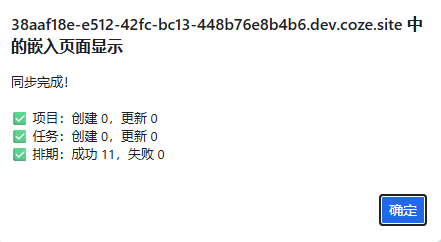
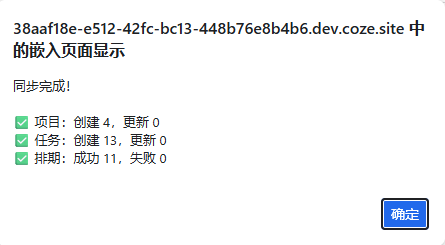
fix: 修复项目和任务同步时无法识别已有记录的问题（改用 records/list 接口）

diff --git a/src/app/api/feishu/sync-projects-tasks/route.ts b/src/app/api/feishu/sync-projects-tasks/route.ts
@@ -74,28 +74,46 @@ export async function POST(request: NextRequest) {
       const existingProjectsMap = new Map<string, string>(); // projectId -> record_id
       
       try {
-        const listResponse = await fetch(
-          `https://open.feishu.cn/open-apis/bitable/v1/apps/${appToken}/tables/${tableIds.projects}/records/search`,
-          {
-            method: 'POST',
+        // 使用 records/list 接口获取所有记录
+        let allRecords: any[] = [];
+        let pageToken = '';
+        
+        do {
+          const url = `https://open.feishu.cn/open-apis/bitable/v1/apps/${appToken}/tables/${tableIds.projects}/records?page_size=500${pageToken ? `&page_token=${pageToken}` : ''}`;
+          
+          const listResponse = await fetch(url, {
+            method: 'GET',
             headers: {
               'Authorization': `Bearer ${appAccessToken}`,
               'Content-Type': 'application/json',
             },
-            body: JSON.stringify({ page_size: 500 }),
-          }
-        );
-
-        const listData = await listResponse.json();
-        if (listData.code === 0 && listData.data) {
-          listData.data.items.forEach((item: any) => {
-            const projectId = item.fields[FEISHU_FIELD_IDS.projects.id];
-            if (projectId) {
-              existingProjectsMap.set(projectId, item.record_id);
-            }
           });
-          log(`飞书中已有 ${existingProjectsMap.size} 个项目记录`);
-        }
+
+          const listData = await listResponse.json();
+          log(`获取项目记录响应: code=${listData.code}, has_data=${!!listData.data}, items=${listData.data?.items?.length || 0}`);
+          
+          if (listData.code === 0 && listData.data && listData.data.items) {
+            allRecords = allRecords.concat(listData.data.items);
+            pageToken = listData.data.page_token || '';
+          } else {
+            log(`获取项目记录失败: ${JSON.stringify(listData)}`);
+            break;
+          }
+        } while (pageToken);
+        
+        log(`总共获取到 ${allRecords.length} 个项目记录`);
+        
+        allRecords.forEach((item: any) => {
+          log(`项目记录 - record_id=${item.record_id}, fields=${JSON.stringify(item.fields).substring(0, 200)}`);
+          const projectId = item.fields[FEISHU_FIELD_IDS.projects.id];
+          if (projectId) {
+            existingProjectsMap.set(projectId, item.record_id);
+            log(`✅ 映射项目: ${projectId} -> ${item.record_id}`);
+          } else {
+            log(`⚠ 项目记录缺少 ID 字段: ${item.record_id}, 可用字段: ${Object.keys(item.fields).join(', ')}`);
+          }
+        });
+        log(`飞书中已有 ${existingProjectsMap.size} 个项目记录`);
       } catch (error) {
         log(`获取现有项目记录失败: ${error instanceof Error ? error.message : '未知错误'}`);
       }
@@ -154,28 +172,46 @@ export async function POST(request: NextRequest) {
       const existingTasksMap = new Map<string, string>(); // taskId -> record_id
       
       try {
-        const listResponse = await fetch(
-          `https://open.feishu.cn/open-apis/bitable/v1/apps/${appToken}/tables/${tableIds.tasks}/records/search`,
-          {
-            method: 'POST',
+        // 使用 records/list 接口获取所有记录
+        let allRecords: any[] = [];
+        let pageToken = '';
+        
+        do {
+          const url = `https://open.feishu.cn/open-apis/bitable/v1/apps/${appToken}/tables/${tableIds.tasks}/records?page_size=500${pageToken ? `&page_token=${pageToken}` : ''}`;
+          
+          const listResponse = await fetch(url, {
+            method: 'GET',
             headers: {
               'Authorization': `Bearer ${appAccessToken}`,
               'Content-Type': 'application/json',
             },
-            body: JSON.stringify({ page_size: 500 }),
-          }
-        );
-
-        const listData = await listResponse.json();
-        if (listData.code === 0 && listData.data) {
-          listData.data.items.forEach((item: any) => {
-            const taskId = item.fields[FEISHU_FIELD_IDS.tasks.id];
-            if (taskId) {
-              existingTasksMap.set(taskId, item.record_id);
-            }
           });
-          log(`飞书中已有 ${existingTasksMap.size} 个任务记录`);
-        }
+
+          const listData = await listResponse.json();
+          log(`获取任务记录响应: code=${listData.code}, has_data=${!!listData.data}, items=${listData.data?.items?.length || 0}`);
+          
+          if (listData.code === 0 && listData.data && listData.data.items) {
+            allRecords = allRecords.concat(listData.data.items);
+            pageToken = listData.data.page_token || '';
+          } else {
+            log(`获取任务记录失败: ${JSON.stringify(listData)}`);
+            break;
+          }
+        } while (pageToken);
+        
+        log(`总共获取到 ${allRecords.length} 个任务记录`);
+        
+        allRecords.forEach((item: any) => {
+          log(`任务记录 - record_id=${item.record_id}, fields=${JSON.stringify(item.fields).substring(0, 200)}`);
+          const taskId = item.fields[FEISHU_FIELD_IDS.tasks.id];
+          if (taskId) {
+            existingTasksMap.set(taskId, item.record_id);
+            log(`✅ 映射任务: ${taskId} -> ${item.record_id}`);
+          } else {
+            log(`⚠ 任务记录缺少 ID 字段: ${item.record_id}, 可用字段: ${Object.keys(item.fields).join(', ')}`);
+          }
+        });
+        log(`飞书中已有 ${existingTasksMap.size} 个任务记录`);
       } catch (error) {
         log(`获取现有任务记录失败: ${error instanceof Error ? error.message : '未知错误'}`);
       }
